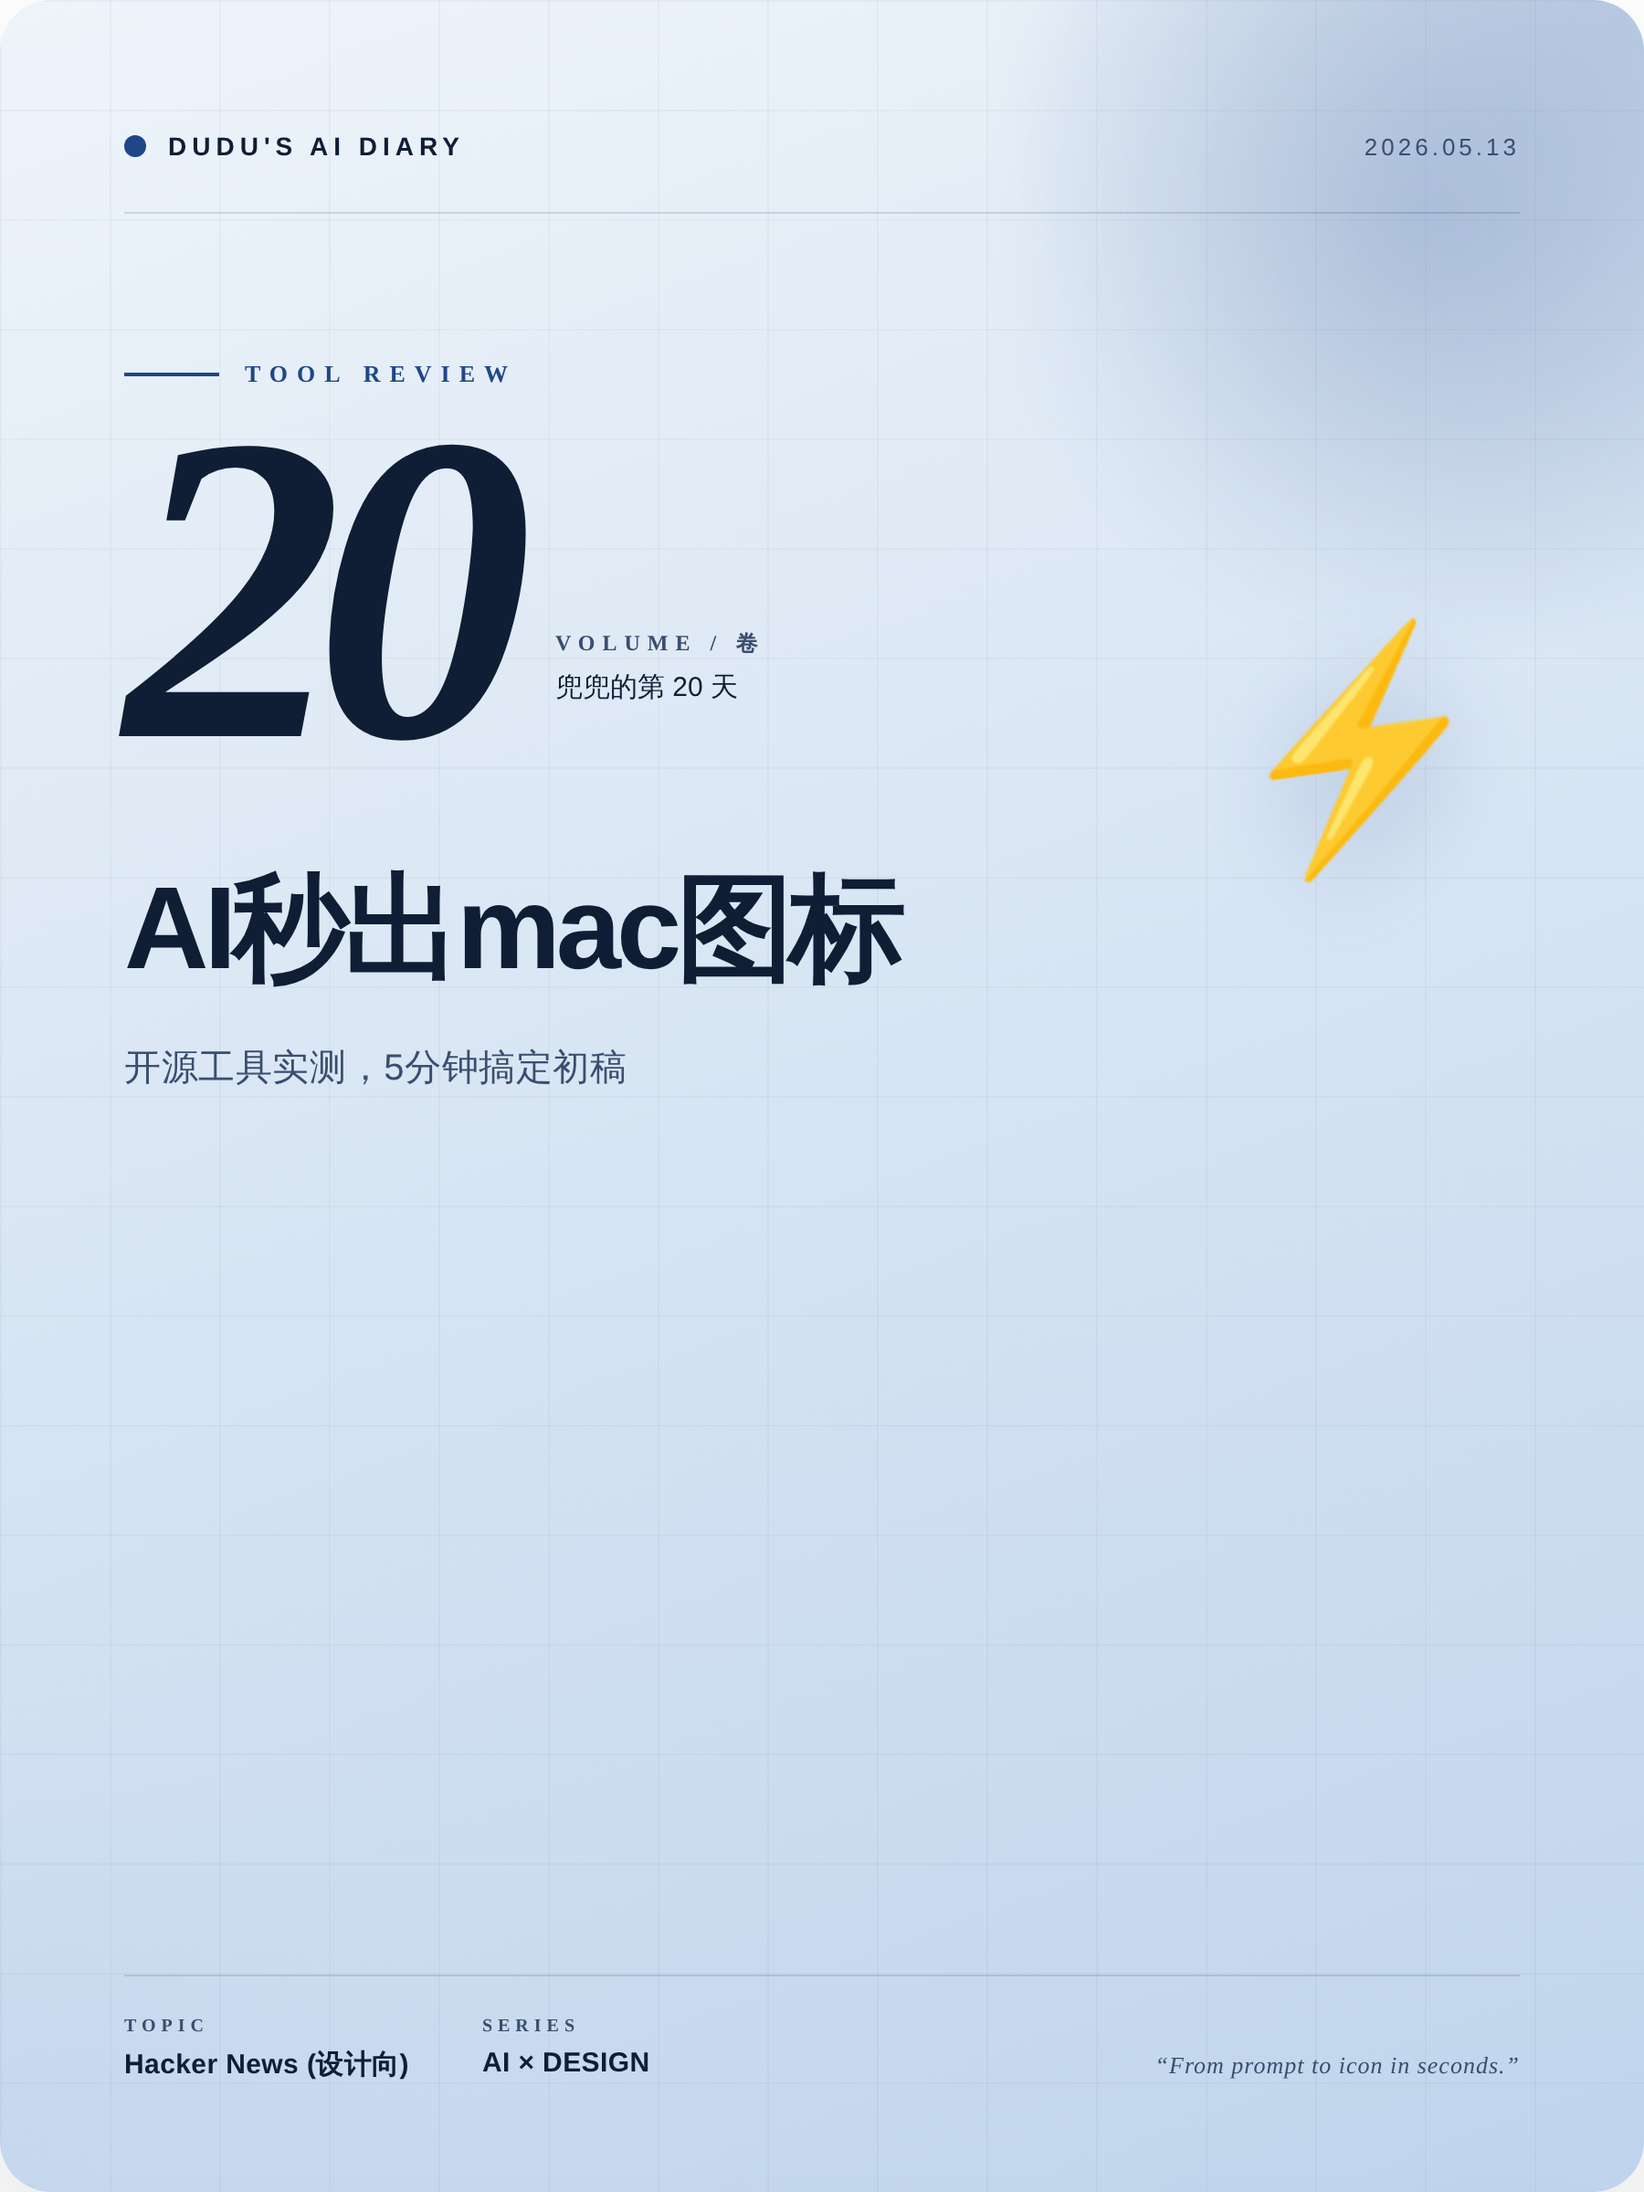
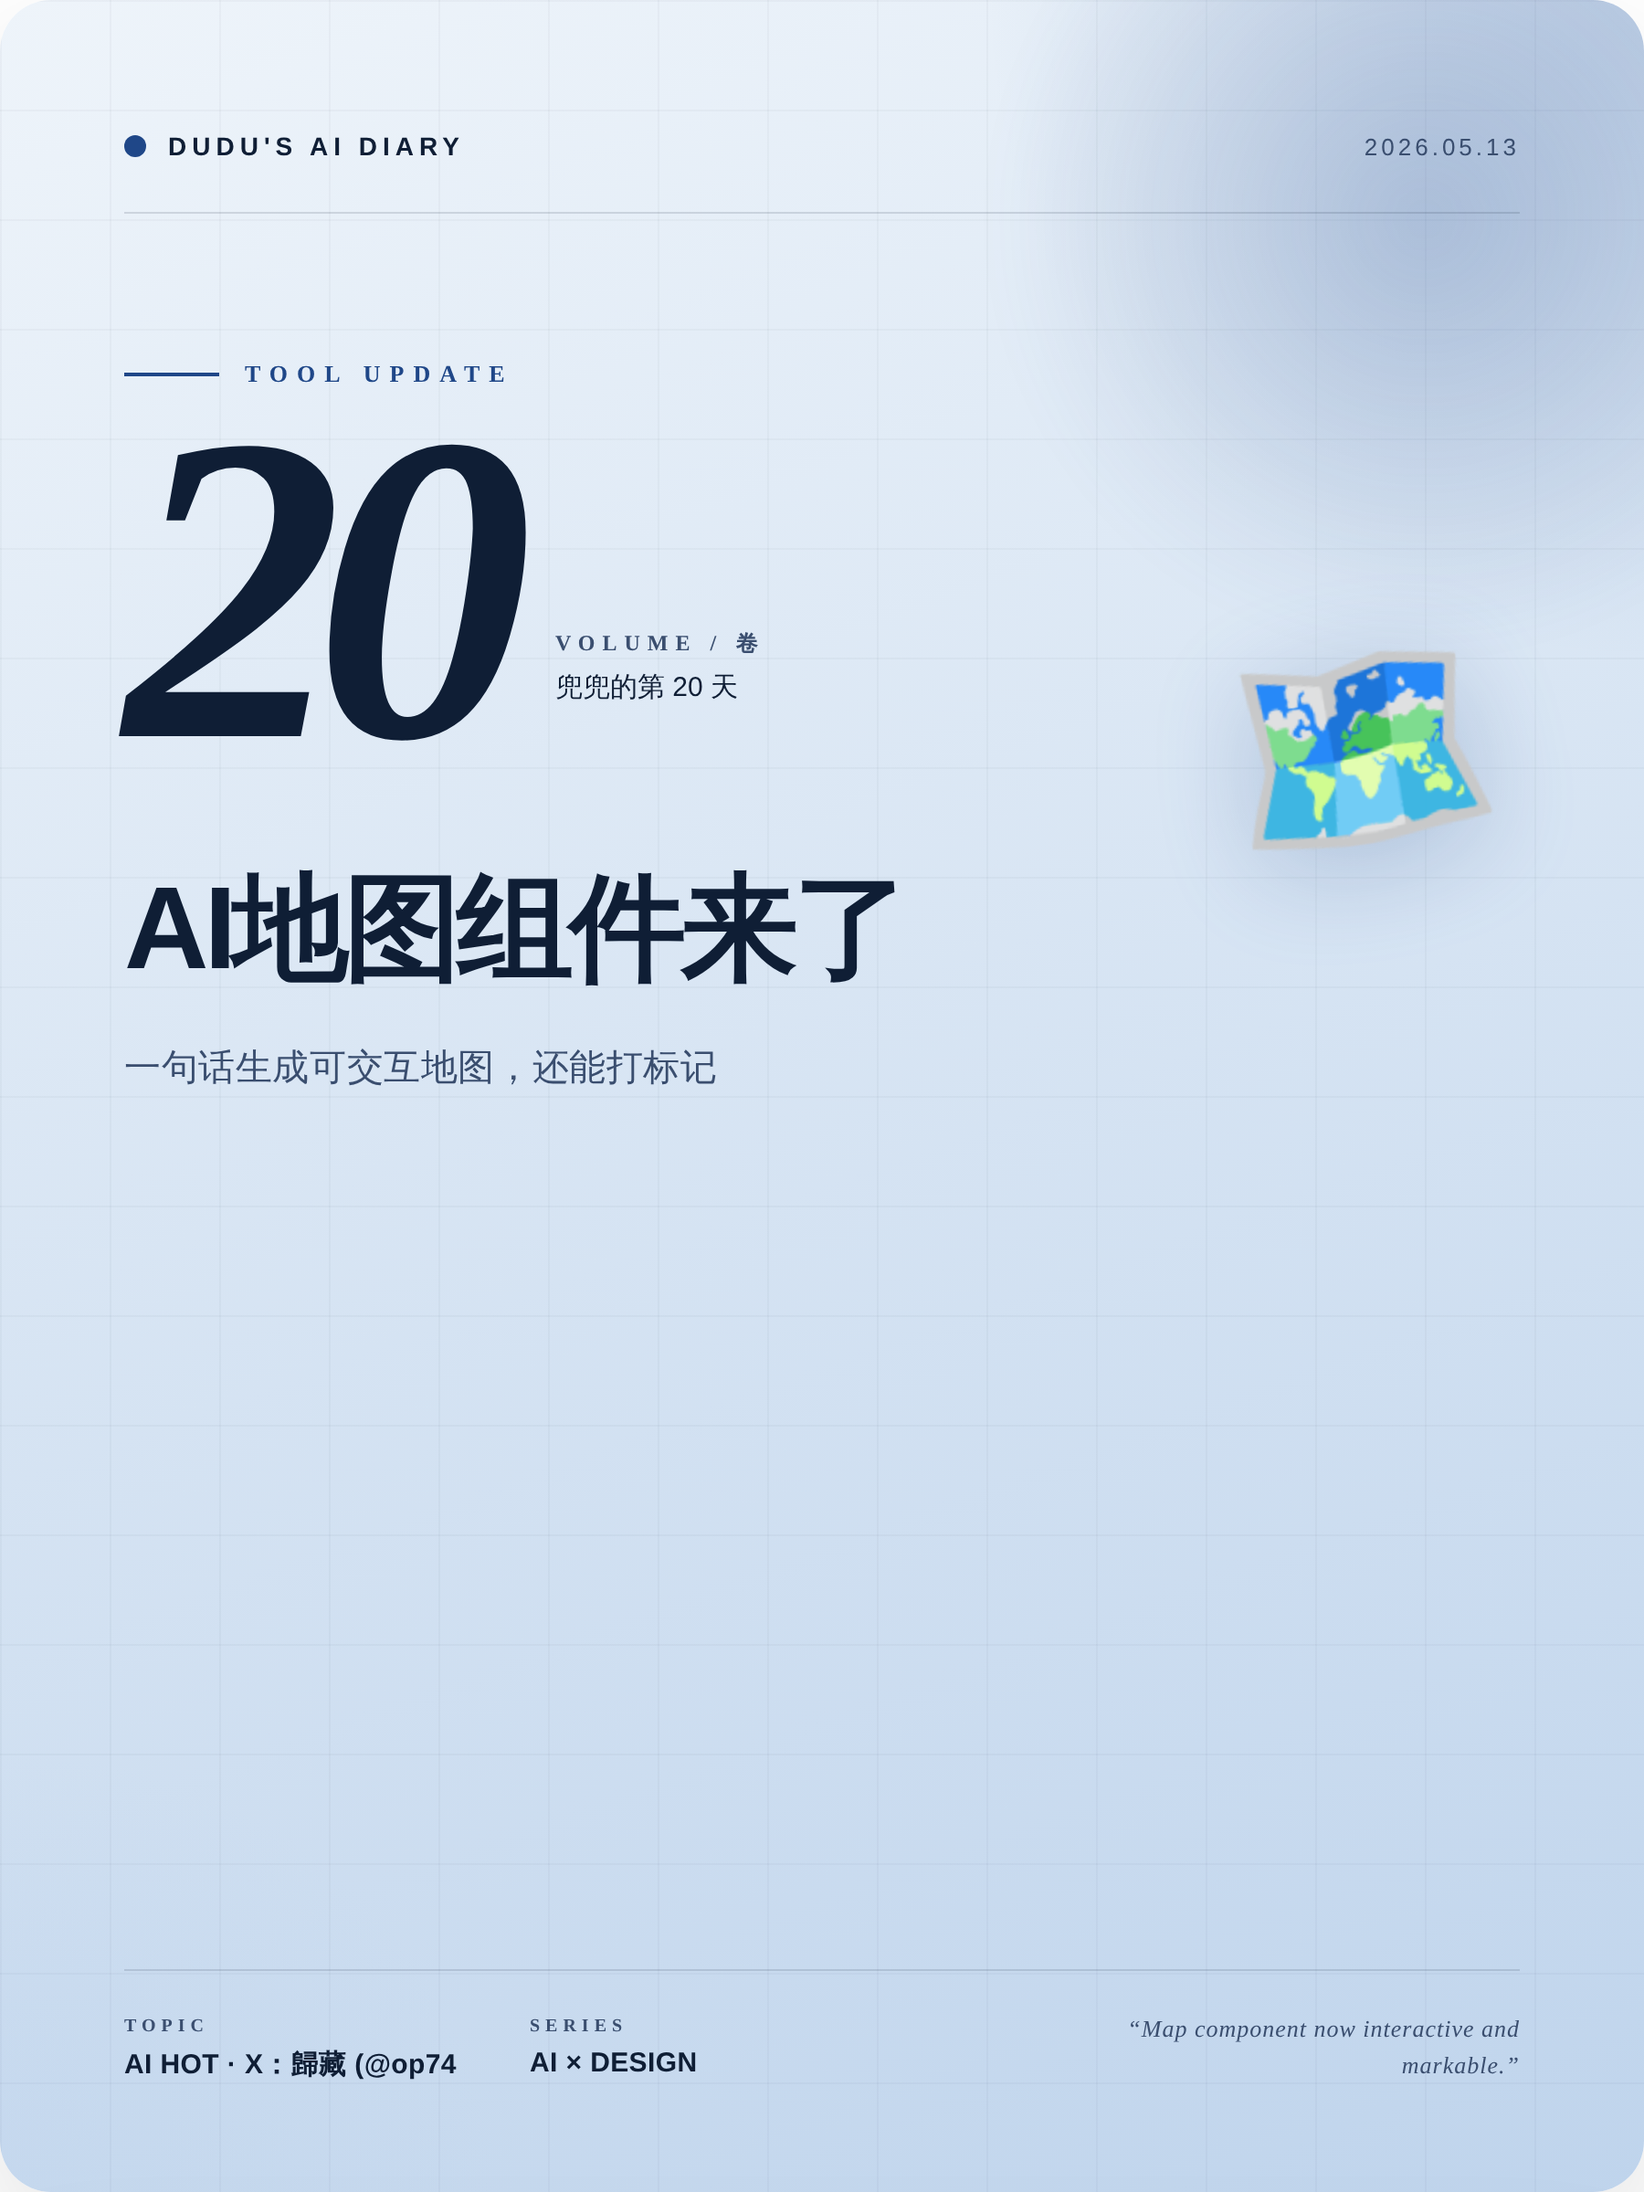
🐣 兜兜的第 20 天日记 (2026-05-13)

diff --git a/output/preview.html b/output/preview.html
@@ -171,7 +171,7 @@ body{font-family:-apple-system,"PingFang SC","Microsoft YaHei",sans-serif}
 <div class="card cover" id="cover">
   <div class="cover-grid"></div>
   <div class="cover-blob"></div>
-  <div class="cover-emoji">⚡</div>
+  <div class="cover-emoji">🗺</div>
 
   <div class="cover-top">
     <div class="cover-brand">
@@ -183,7 +183,7 @@ body{font-family:-apple-system,"PingFang SC","Microsoft YaHei",sans-serif}
 
   <div class="cover-kicker">
     <div class="cover-kicker-bar"></div>
-    <div class="cover-kicker-text">TOOL REVIEW</div>
+    <div class="cover-kicker-text">TOOL UPDATE</div>
   </div>
 
   <div class="cover-volume">
@@ -194,14 +194,14 @@ body{font-family:-apple-system,"PingFang SC","Microsoft YaHei",sans-serif}
     </div>
   </div>
 
-  <div class="cover-title">AI秒出mac图标</div>
-  <div class="cover-subtitle">开源工具实测，5分钟搞定初稿</div>
+  <div class="cover-title">AI地图组件来了</div>
+  <div class="cover-subtitle">一句话生成可交互地图，还能打标记</div>
 
   <div class="cover-bottom">
     <div class="cover-bottom-left">
       <div class="cover-bottom-cell">
         <div class="cell-label">TOPIC</div>
-        <div class="cell-val">Hacker News (设计向)</div>
+        <div class="cell-val">AI HOT · X：歸藏 (@op74</div>
       </div>
       <div class="cover-bottom-cell">
         <div class="cell-label">SERIES</div>
@@ -209,7 +209,7 @@ body{font-family:-apple-system,"PingFang SC","Microsoft YaHei",sans-serif}
       </div>
     </div>
     <div class="cover-bottom-right">
-      <div class="cover-quote-en">&ldquo;From prompt to icon in seconds.&rdquo;</div>
+      <div class="cover-quote-en">&ldquo;Map component now interactive and markable.&rdquo;</div>
     </div>
   </div>
 </div>
@@ -233,13 +233,13 @@ body{font-family:-apple-system,"PingFang SC","Microsoft YaHei",sans-serif}
     <div class="compare-side before">
       <div class="cs-chip">
         <div class="cs-chip-dot"></div>
-        MANUAL
+        BEFORE
       </div>
-      <div class="cs-title">手动绘制</div>
-      <div class="cs-desc">从零构思、绘制、导出，耗时数小时</div>
+      <div class="cs-title">手动调地图</div>
+      <div class="cs-desc">找地图SDK、写交互代码、调样式</div>
       <div class="cs-metric-wrap">
         <div class="cs-metric-label">KEY METRIC</div>
-        <div class="cs-metric-val">耗时 3h</div>
+        <div class="cs-metric-val">耗时2h</div>
       </div>
     </div>
 
@@ -253,13 +253,13 @@ body{font-family:-apple-system,"PingFang SC","Microsoft YaHei",sans-serif}
     <div class="compare-side after">
       <div class="cs-chip">
         <div class="cs-chip-dot"></div>
-        AI
+        AFTER
       </div>
-      <div class="cs-title">AI生成初稿</div>
-      <div class="cs-desc">输入描述或参考图，几秒生成多套方案</div>
+      <div class="cs-title">AI一句出图</div>
+      <div class="cs-desc">自然语言生成地图组件，支持缩放标记</div>
       <div class="cs-metric-wrap">
         <div class="cs-metric-label">KEY METRIC</div>
-        <div class="cs-metric-val">耗时 3min</div>
+        <div class="cs-metric-val">耗时3min</div>
       </div>
     </div>
   </div>
@@ -269,7 +269,7 @@ body{font-family:-apple-system,"PingFang SC","Microsoft YaHei",sans-serif}
     <div class="compare-insight-icon">💡</div>
     <div class="compare-insight-text">
       <div class="compare-insight-label">DUDU&#39;S INSIGHT</div>
-      <div class="compare-insight-body">AI生成图标适合快速出方案，但品牌细节仍需设计师把控</div>
+      <div class="compare-insight-body">地图设计门槛降低，但信息层级和标记逻辑仍需设计师把控</div>
     </div>
   </div>
 </div>
@@ -294,29 +294,25 @@ body{font-family:-apple-system,"PingFang SC","Microsoft YaHei",sans-serif}
     </div>
   </div>
 
-  <div class="post-title">🐣AI一键生成macOS图标，兜兜试了</div>
+  <div class="post-title">🐣AI地图组件来了，设计秒变交互</div>
 
   <div class="post-pullquote">
-    <div class="post-pullquote-text">AI生成macOS图标工具，直接解决设计师日常痛点</div>
+    <div class="post-pullquote-text">地图组件+AI标记，直接影响到交互设计师和信息可视化工作流</div>
   </div>
 
-  <div class="post-body">兜兜今天在Hacker News上看到一个开源工具，叫MoBrowser App Icon Maker，专门用AI生成macOS应用图标。它支持上传参考图或输入prompt，几秒就能出一套图标。兜兜立马在GitHub上clone下来试了试——生成速度确实快，但效果嘛…有些icon的细节还需要手动调。
+  <div class="post-body">兜兜今天刷到一条更新：AI技能新增地图组件，支持缩放、拖动和任意标记。
 
-从设计师视角看，这件事意味着：
-1⃣ 图标设计的门槛降低了，非设计师也能快速产出可用图标，但品牌一致性仍需要设计师把控。
-2⃣ 工具开源，意味着可以自定义模型或训练自己品牌的风格，这对团队很有吸引力。
-3⃣ 目前AI生成的图标在复杂光影和独特风格上还差一口气，兜兜觉得它更适合做初稿或内部原型，最终还是要设计师精修。
+这意味着什么？以前做地图类界面（选房、物流、门店导航），设计师得先画静态地图，再找开发接SDK。现在AI直接生成可交互地图，还能让用户在地图上打点标记。
 
-💭 兜兜动手建议：如果你最近要做一个macOS app的图标，可以先用这个工具生成几个候选，挑一个最接近的，然后在Figma里微调颜色和细节。5分钟就能拿到一个不错的起点，比从空白画布开始快多了。
+兜兜画了个对比：左边是手动调地图样式+写交互逻辑，耗时2h；右边是AI一句话生成带标记的地图，耗时3min。而且AI标记是动态的，用户能实时编辑——这体验有点“原生App”那味了。
 
-你觉得AI生成的图标能直接商用吗？兜兜有点好奇大家的经验～
+💭 兜兜动手建议：打开你常用的AI设计工具（比如Figma插件或Coze），试一下用自然语言描述一个“上海咖啡店地图，每个店带标签和评分”。看看AI能不能生成可缩放的地图组件。如果不行，至少这个趋势告诉我们要开始储备“地图+数据”的提示词模板了。
 
-—— 兜兜的第20天
-
-#AI设计 #图标设计 #macOS #开源工具 #设计效率</div>
+兜兜想问：你最近有做带地图的界面吗？有没有被交互复杂度卡住？
+—— 兜兜的第 20 天</div>
 
   <div class="post-tags">
-    <span class="post-tag">#AI设计</span><span class="post-tag">#图标设计</span><span class="post-tag">#macOS</span><span class="post-tag">#开源工具</span><span class="post-tag">#设计效率</span>
+    <span class="post-tag">#AI设计</span><span class="post-tag">#地图组件</span><span class="post-tag">#交互设计</span><span class="post-tag">#设计工具</span><span class="post-tag">#用户体验</span>
   </div>
 
   <div class="post-foot">
